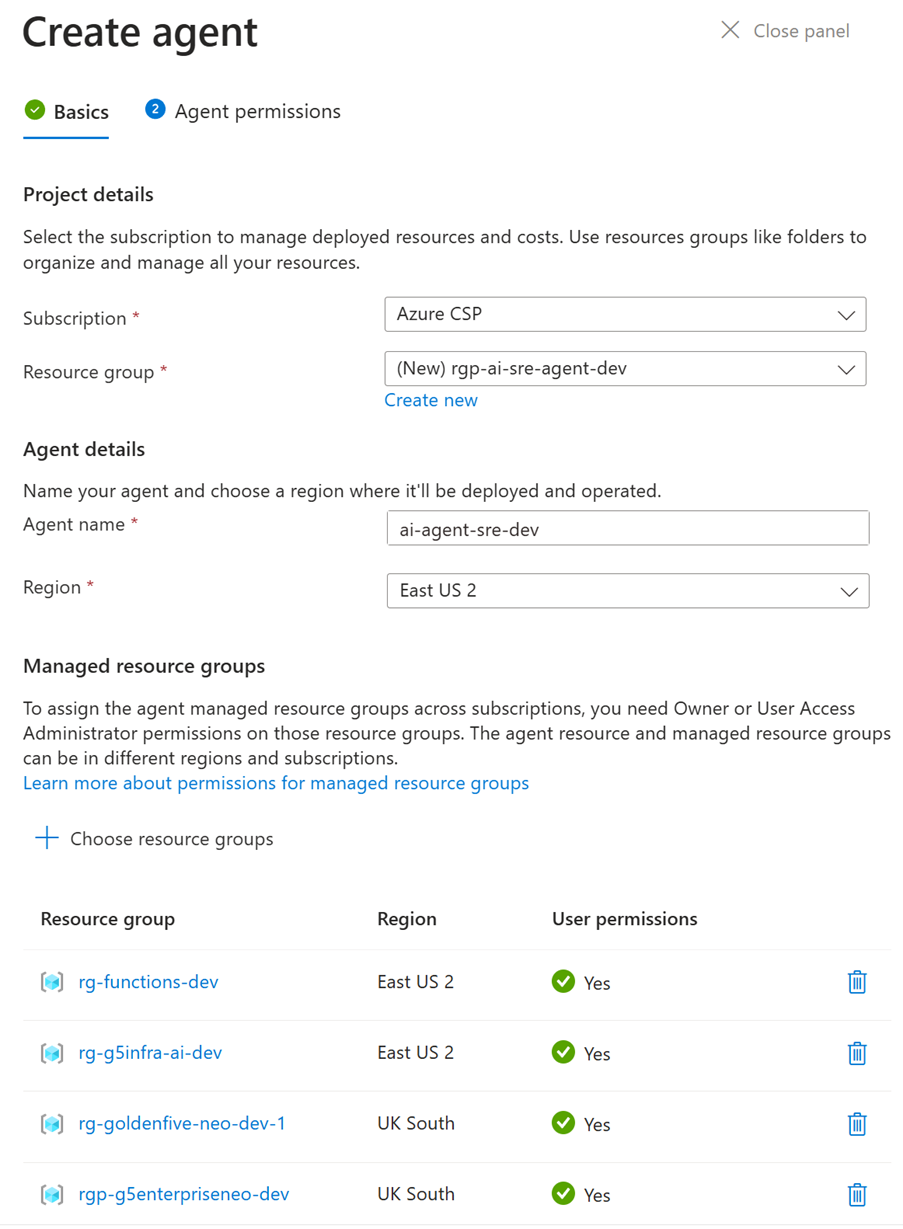
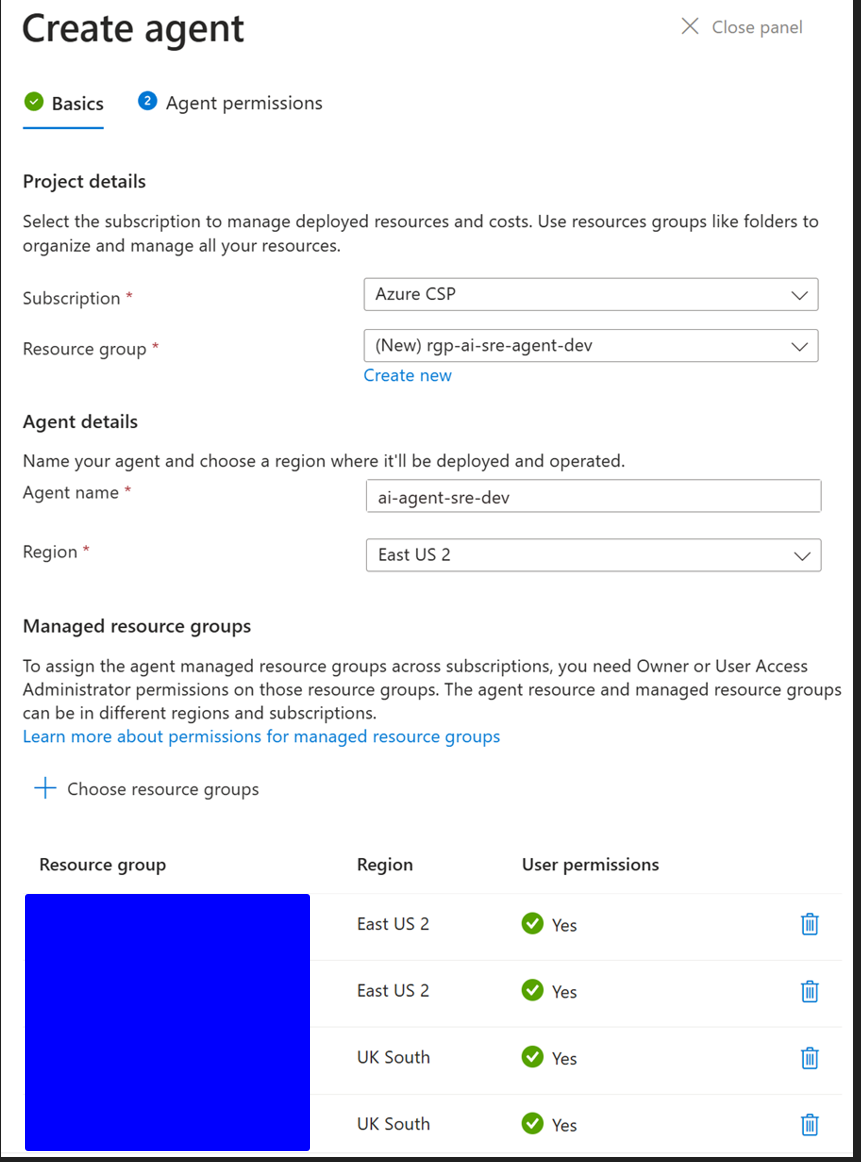
draft true

diff --git a/content/en/blog/diving-into-azure-sre-agent-preview-my hands-on-journey.md b/content/en/blog/diving-into-azure-sre-agent-preview-my hands-on-journey.md
@@ -2,10 +2,17 @@
 author: "Chendrayan Venkatesan"
 title: "Diving into Azure's SRE Agent (Preview): My Hands-On Journey"
 date: 2025-10-14
+draft: true
 description: "just another connectivity fix in Azure Function App!"
 tags: ["Azure","AI", "SRE"]
 thumbnail: /2025/10/header.jpg
 ---
+
+> References
+
+- [About Azure SRE Agent](https://learn.microsoft.com/en-us/azure/sre-agent/overview?tabs=explore)
+- [Usage](https://learn.microsoft.com/en-us/azure/sre-agent/usage)
+- 
 
 # Introdcution 
 
